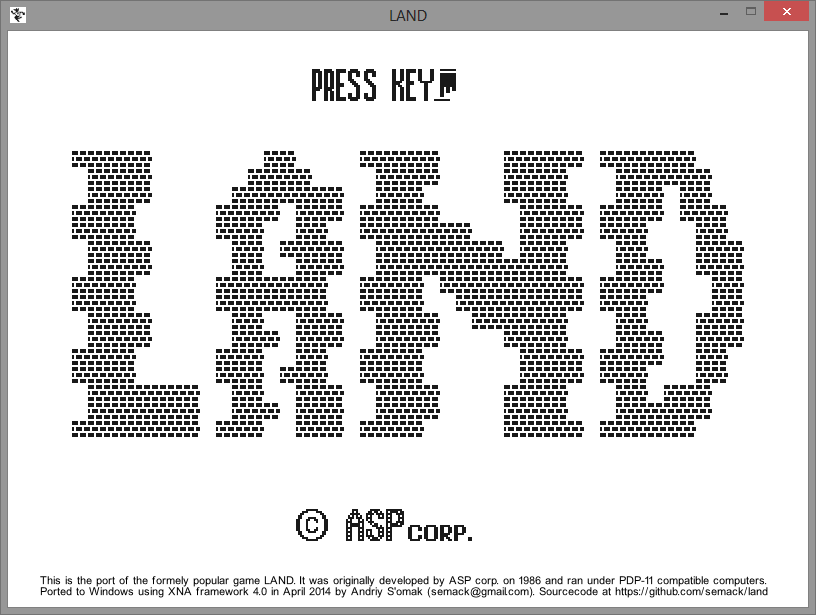
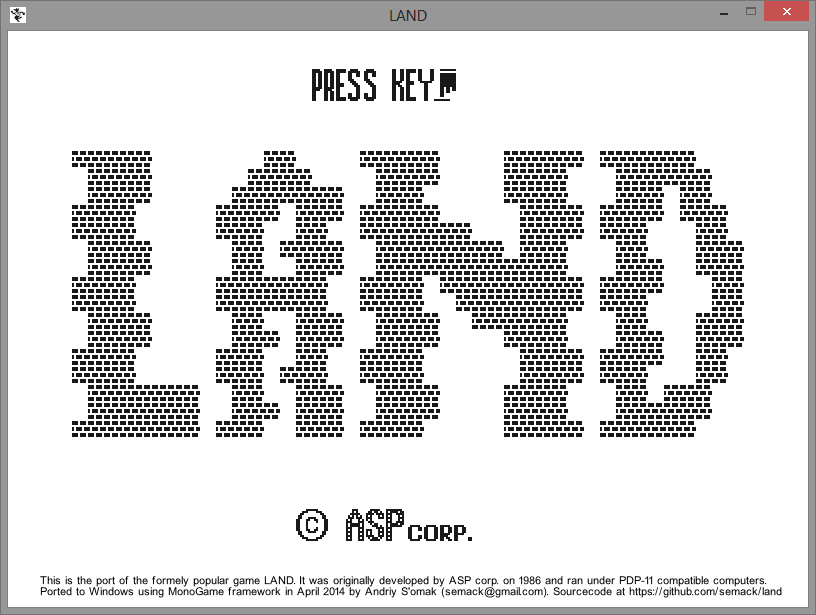
fixed splash tip and screenshot

Changed region(s): [[0.2145, 0.9577, 0.9498, 0.9886]]

diff --git a/Game/Components/Splash.cs b/Game/Components/Splash.cs
@@ -31,7 +31,7 @@ namespace Land.Components
             _infoText.Append(
                 "This is the port of the formely popular game LAND. It was originally developed by ASP corp. on 1986 and ran under PDP-11 compatible computers.\r\n");
             _infoText.Append(
-                "Ported to Windows using XNA framework 4.0 in April 2014 by Andriy S'omak (semack@gmail.com). Sourcecode at https://github.com/semack/land");
+                "Ported to Windows using MonoGame framework in April 2014 by Andriy S'omak (semack@gmail.com). Sourcecode at https://github.com/semack/land");
         }
 
         private Color BackColor
